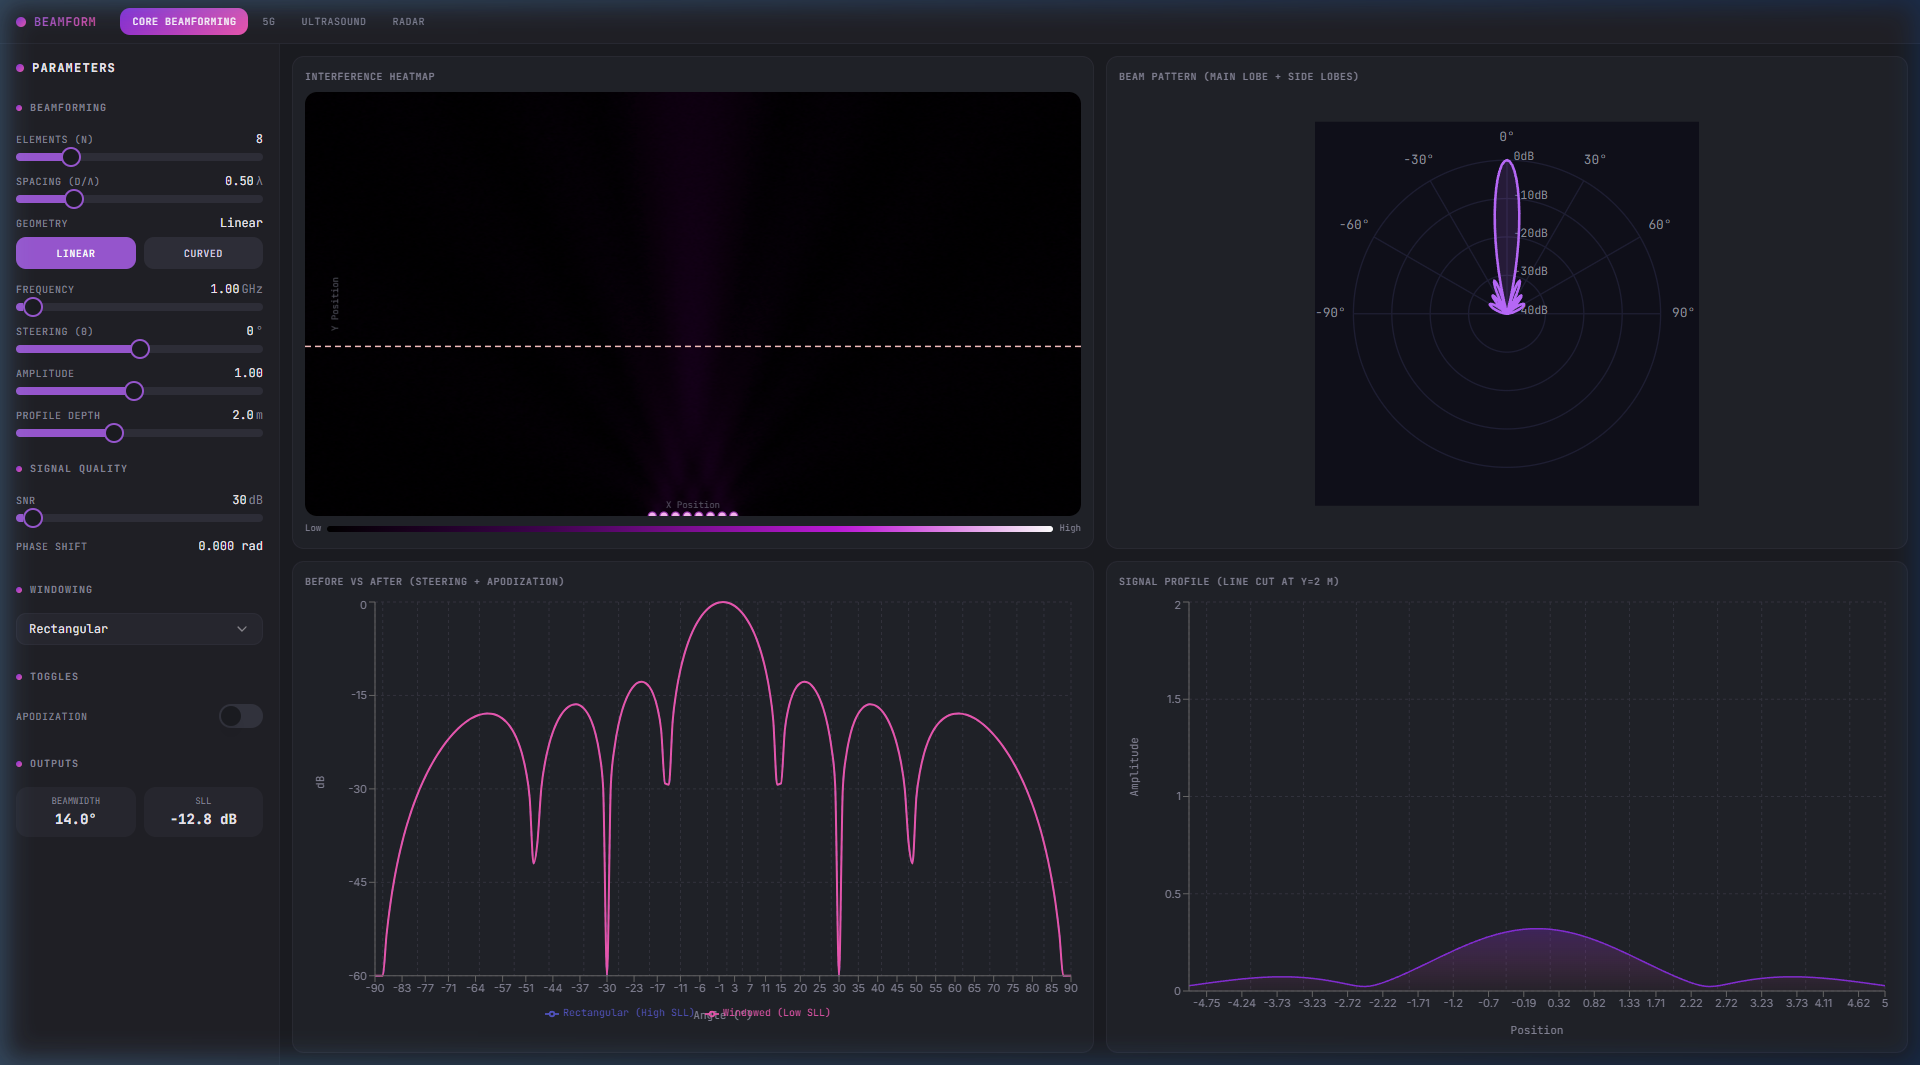
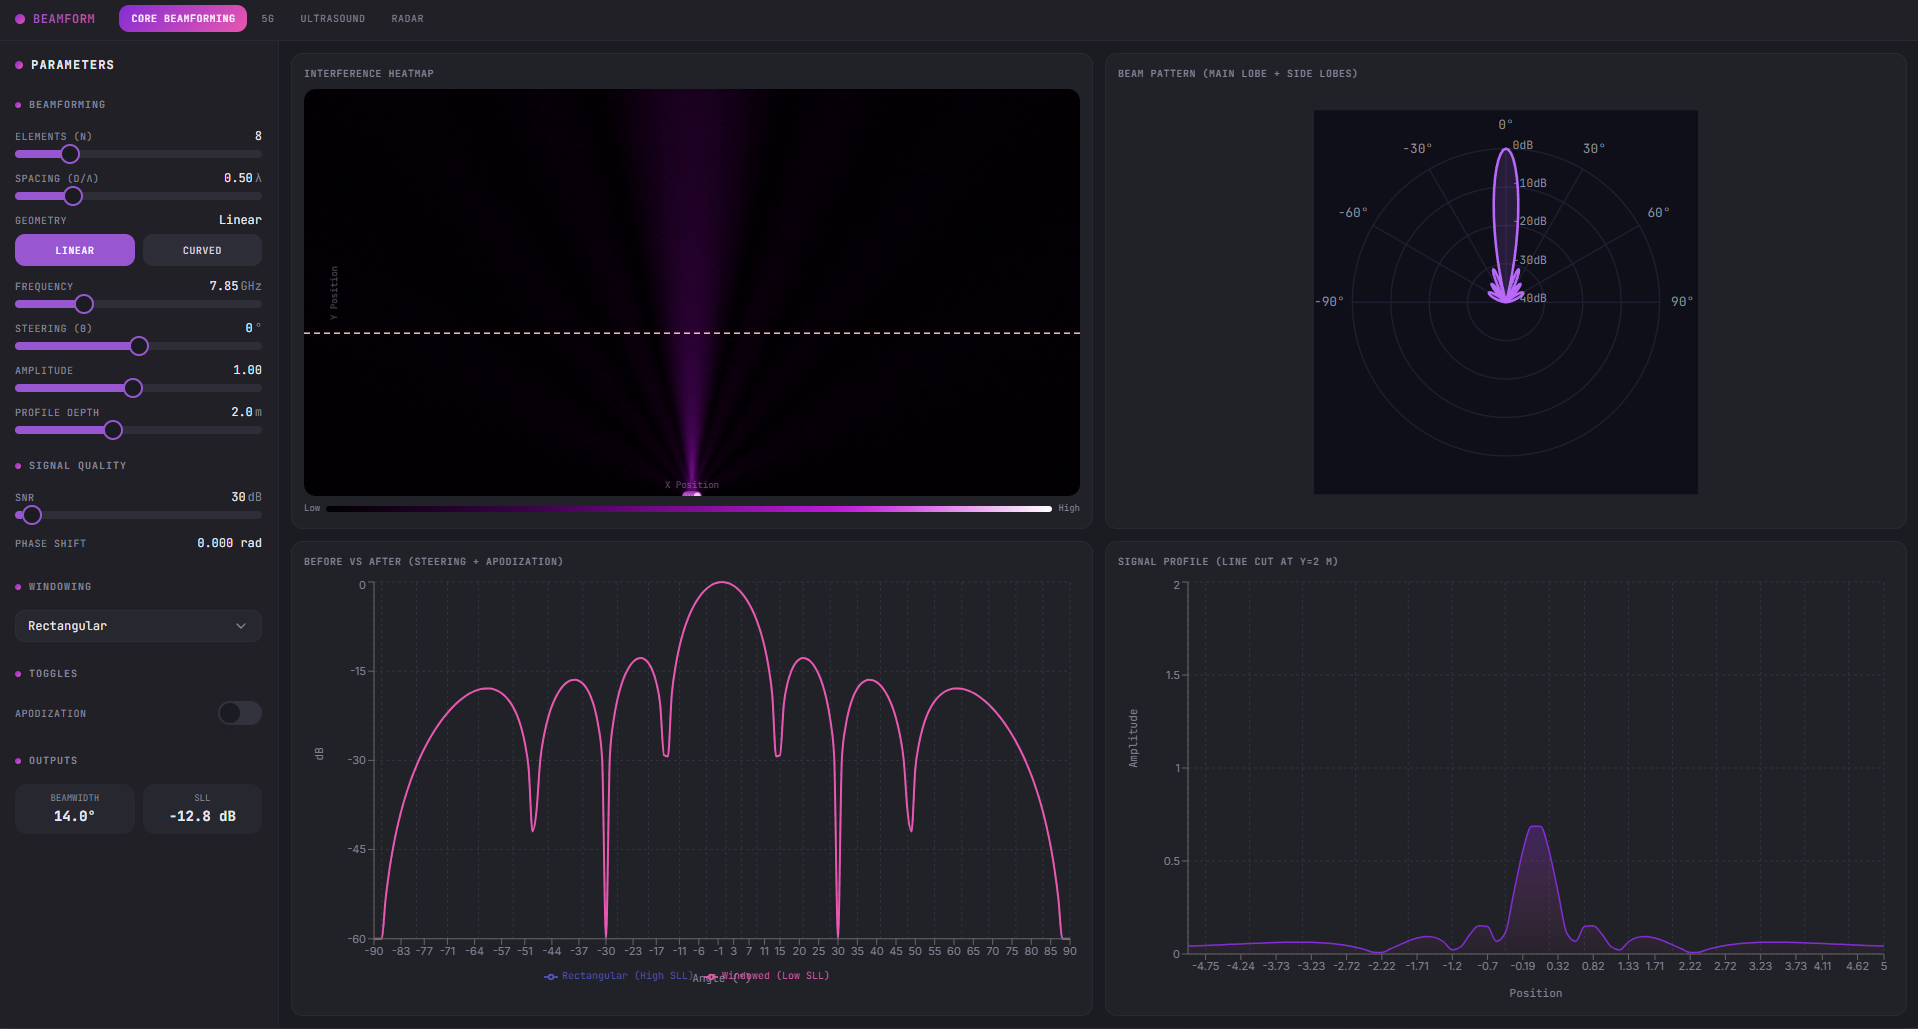
latest

diff --git a/frontend/src/pages/Simulator5G.tsx b/frontend/src/pages/Simulator5G.tsx
@@ -1613,6 +1613,13 @@ export default function Simulator5G() {
     const localUsersById = new Map<number, { id: number; x: number; y: number }>(localUsers.map((u) => [u.id, u]));
     const allocsByTower = elementAllocsByTowerId;
     const kEpsilon = 1e-6;
+    const snrValue = Math.max(0, Number(deferredSnrDb ?? 30));
+    const snrScale = Math.max(0.05, snrValue / (snrValue + 30));
+    const averageAmplitude = Math.max(
+      1e-6,
+      localTowers.reduce((sum, tower) => sum + Number((tower as any).amplitude ?? 1.0), 0) / Math.max(1, localTowers.length)
+    );
+    const amplitudeScale = averageAmplitude;
 
     const spanX = Math.max(1e-6, mapViewport.maxX - mapViewport.minX);
     const spanY = Math.max(1e-6, mapViewport.maxY - mapViewport.minY);
@@ -1732,7 +1739,7 @@ export default function Simulator5G() {
         const steerForward = steerX * beamDirX + steerY * beamDirY;
         const phase = -kWave * (localX * steerLateral + localY * steerForward);
         const facingAngle = isCurved ? (beamAxisAngle + alpha_n) : beamAxisAngle;
-        const elemAmp = amplitude * ((weights[i] ?? 1) / wNorm);
+        const elemAmp = amplitude * snrScale * amplitudeScale * ((weights[i] ?? 1) / wNorm);
         elementEmitters.push({ x: ex, y: ey, amp: elemAmp, phase, k: kWave, facingAngle, isCurved: ((tower as any).geometry ?? "linear") === "curved" });
       }
     }
@@ -1826,6 +1833,12 @@ export default function Simulator5G() {
   const distanceChart = useMemo(() => {
     const SAMPLE_COUNT = 50;
     const minDist = 0.1;
+    const snrValue = Math.max(0, Number(deferredSnrDb ?? 30));
+    const snrScale = Math.max(0.05, snrValue / (snrValue + 30));
+    const averageAmplitude = Math.max(
+      1e-6,
+      localTowers.reduce((sum, tower) => sum + Number((tower as any).amplitude ?? 1.0), 0) / Math.max(1, localTowers.length)
+    );
 
     // Find max coverage radius among ALL local towers
     const maxRadius = Math.max(
@@ -1855,7 +1868,7 @@ export default function Simulator5G() {
         const alloc = allocs.find(a => Number(a.user_id) === u.id);
         const allocFraction = alloc?.fraction ?? (1.0 / (allocs.length || 1));
 
-        const signal = allocFraction / (d * d);
+        const signal = (allocFraction / (d * d)) * snrScale * averageAmplitude;
         row[`user_${u.id}`] = parseFloat(signal.toFixed(6));
       }
       return row;
@@ -1896,13 +1909,13 @@ export default function Simulator5G() {
           userId: u.id,
           towerId,
           distance: parseFloat(d.toFixed(2)),
-          signal: parseFloat((allocFraction / (d * d)).toFixed(6)),
+          signal: parseFloat(((allocFraction / (d * d)) * snrScale * averageAmplitude).toFixed(6)),
           beamHue,
         };
       });
 
     return { curveData, markers };
-  }, [localUsers, localTowers, liveConnectedTowerByUserId, elementAllocsByTowerId, towerCoverageRadiusByTowerId, mapViewport, CANVAS_W, CANVAS_H]);
+  }, [localUsers, localTowers, liveConnectedTowerByUserId, elementAllocsByTowerId, towerCoverageRadiusByTowerId, mapViewport, CANVAS_W, CANVAS_H, deferredSnrDb]);
 
   const panelTower = useMemo(
     () => localTowers.find((t) => t.id === panelTowerId) ?? null,
@@ -1934,26 +1947,8 @@ export default function Simulator5G() {
           }}
         />
       </div>
-
-      <div className="space-y-1.5">
-        <div className="flex justify-between items-center">
-          <Label className="text-[10px] font-mono text-muted-foreground uppercase tracking-wider">
-            Heatmap Resolution
-          </Label>
-          <span className="text-xs font-mono text-foreground tabular-nums">
-            {Math.round(Number(params.gridSize ?? 80))}
-          </span>
-        </div>
-        <Slider
-          value={[Math.round(Number(params.gridSize ?? 80))]}
-          min={40}
-          max={180}
-          step={10}
-          onValueChange={([v]) => updateParam("gridSize", Math.round(v))}
-        />
-      </div>
     </div>
-  ), [panelTower, panelTowerId, params.gridSize, updateParam]);
+  ), [panelTower, panelTowerId, updateParam]);
 
   const panelControl = useMemo(() => (
     <div className="h-full flex flex-col">

diff --git a/frontend/src/components/PolarPlot.tsx b/frontend/src/components/PolarPlot.tsx
@@ -45,6 +45,11 @@ export default function PolarPlot({
       ? series
       : [{ id: "single", angles, magnitudes, magnitudesDb, color: "#b466ff", label: "Beam" }];
 
+    const globalMaxMag = Math.max(
+      0,
+      ...source.flatMap((s) => s.magnitudes ?? [])
+    );
+
     return source.map((s, idx) => {
       const sAngles = s.angles ?? [];
       const sMagnitudes = s.magnitudes ?? [];
@@ -54,8 +59,8 @@ export default function PolarPlot({
       if (useDb && sMagnitudesDb && sMagnitudesDb.length > 0) {
         normalized = sMagnitudesDb.map((db) => Math.max(0, Math.min(1, (db - DB_MIN) / (DB_MAX - DB_MIN))));
       } else {
-        const maxMag = Math.max(0, ...sMagnitudes);
-        normalized = sMagnitudes.map((m) => (maxMag > 0 ? m / maxMag : 0));
+        const scale = globalMaxMag > 0 ? globalMaxMag : Math.max(0, ...sMagnitudes);
+        normalized = sMagnitudes.map((m) => (scale > 0 ? m / scale : 0));
       }
 
       const points = sAngles.map((angle, i) => {

diff --git a/frontend/src/hooks/use5GSimulatorAPI.ts b/frontend/src/hooks/use5GSimulatorAPI.ts
@@ -33,6 +33,7 @@ export function use5GSimulatorAPI() {
         num_elements: params.numElements ?? 16,
         spacing: params.spacing ?? 0.5,
         frequency: params.frequency ?? 28e9,
+        amplitude: params.amplitude ?? 1.0,
         snr_db: params.snrDb ?? 30,
         auto_steer: params.autoSteer !== false,
         enable_noise: params.enableNoise !== false,

diff --git a/backend/simulators/simulator_5g.py b/backend/simulators/simulator_5g.py
@@ -7,7 +7,7 @@ from dataclasses import dataclass, field
 from ..core.beamforming_engine import BeamformingEngine, BeamformingResult
 from ..core.array_model import ArrayModel
 from ..core.signal_model import SignalModel
-from ..core.noise_model import NoiseModel
+from ..core.noise_model import NoiseModel, get_noise_amplitude
 from ..core.window_functions import WindowFunction
 
 
@@ -373,6 +373,53 @@ class Simulator5G(BeamformingEngine):
             "radius": float(rad),
         }
 
+    def _tower_signal_at_point(
+        self,
+        tower: Tower,
+        x: float,
+        y: float,
+        seed_x: int,
+        seed_y: int,
+    ) -> tuple[float, float, float, float]:
+        """Compute the received signal from one tower at a point."""
+        eff = self._tower_effective_params(tower)
+        amplitude = float(eff["amplitude"])
+        snr_db = float(eff["snr_db"])
+        snr_scale = self._snr_signal_scale(snr_db)
+
+        dx = x - tower.x
+        dy = y - tower.y
+        distance = math.sqrt(dx * dx + dy * dy)
+        angle_to_point = math.atan2(dx, dy) * 180 / math.pi if distance > 1e-6 else 0.0
+        beam_gain = self._get_beam_gain_at_angle(angle_to_point, tower.steering_angle_deg)
+
+        signal = amplitude * beam_gain / max(distance * distance, 1e-6)
+        signal *= snr_scale
+        noise_multiplier = get_noise_amplitude(snr_db)
+        if noise_multiplier > 0.0:
+            signal = self._apply_signal_noise(signal, noise_multiplier, seed_x, seed_y)
+
+        return distance, angle_to_point, beam_gain, signal
+
+    @staticmethod
+    def _apply_signal_noise(signal: float, noise_multiplier: float, seed_x: int, seed_y: int) -> float:
+        """Apply deterministic AWGN to a linear signal strength value."""
+        if noise_multiplier <= 0.0 or signal <= 0.0:
+            return max(0.0, signal)
+
+        noise_power = signal * noise_multiplier
+        if noise_power <= 1e-18:
+            return max(0.0, signal)
+
+        noise = NoiseModel.cached_gaussian(seed_x, seed_y, 0) * math.sqrt(noise_power)
+        return max(0.0, signal + noise)
+
+    @staticmethod
+    def _snr_signal_scale(snr_db: float) -> float:
+        """Map SNR into a visible linear signal scale."""
+        snr = max(0.0, float(snr_db))
+        return max(0.05, snr / (snr + 30.0))
+
     @staticmethod
     def _wrap_angle_deg(angle_deg: float) -> float:
         """Normalize angle to [-180, 180] degrees."""
@@ -534,9 +581,12 @@ class Simulator5G(BeamformingEngine):
             allocs = element_allocations.get(tower.id, [])
             eff = self._tower_effective_params(tower)
             freq = float(eff["frequency"])
+            snr_db = float(eff["snr_db"])
+            snr_scale = self._snr_signal_scale(snr_db)
             wavelength_m = self.speed_of_light / max(1.0, freq)
             spacing_over_lambda = float(eff["spacing"])
             amplitude = float(eff["amplitude"])
+            noise_multiplier = get_noise_amplitude(snr_db)
             
             for user in self.users:
                 # Distance and angle
@@ -567,6 +617,8 @@ class Simulator5G(BeamformingEngine):
                         wavelength_m=wavelength_m,
                         amplitude=amplitude,
                     )
+                    signal_strength *= snr_scale
+                    signal_strength = self._apply_signal_noise(signal_strength, noise_multiplier, tower.id, user.id)
                     gain = abs(self._normalized_sinc(
                         int(alloc_for_user.get("num_elements", 1))
                         * math.pi
@@ -577,6 +629,8 @@ class Simulator5G(BeamformingEngine):
                     # Unallocated users see leakage from nominal tower beam plus distance decay.
                     gain = self._get_beam_gain_at_angle(angle_to_user, tower.steering_angle_deg)
                     signal_strength = amplitude * gain / max(distance * distance, 1e-6)
+                    signal_strength *= snr_scale
+                    signal_strength = self._apply_signal_noise(signal_strength, noise_multiplier, tower.id, user.id)
 
                 path_loss_db = self._compute_path_loss(distance)
                 
@@ -610,8 +664,9 @@ class Simulator5G(BeamformingEngine):
     ) -> Dict[int, Optional[int]]:
         """Determine which tower each user connects to (one tower per user).
 
-        Uses ideal path loss (omni tracking) to avoid dropping users due to 
-        momentary misaligned narrow beams. Applies hysteresis to prevent ping-pong.
+        Computes actual received signal strength (path loss + beam gain + SNR noise)
+        for each tower and connects user to tower with highest signal strength.
+        Applies hysteresis to prevent ping-pong.
 
         Args:
             current_connections: Optional map of {user_id: tower_id} from the
@@ -620,21 +675,21 @@ class Simulator5G(BeamformingEngine):
         Returns:
             Dict mapping user_id -> tower_id (or None if no tower in range).
         """
-        # Build per-user signal map using optimal 1.0 gain
+        # Build per-user signal map with actual beam gain and SNR noise considered
         signal_map: Dict[int, Dict[int, float]] = {u.id: {} for u in self.users}
 
         for tower in self.towers:
             for user in self.users:
-                dx = user.x - tower.x
-                dy = user.y - tower.y
-                distance = math.sqrt(dx * dx + dy * dy)
+                distance, _, _, signal = self._tower_signal_at_point(
+                    tower,
+                    user.x,
+                    user.y,
+                    tower.id,
+                    user.id,
+                )
                 if distance > tower.coverage_radius_m:
                     # Out of visible coverage area: tower is not a valid serving candidate.
                     continue
-                path_loss_db = self._compute_path_loss(distance)
-                
-                # Ideal tracking gain = 1.0
-                signal = self.signal.amplitude / (10 ** (path_loss_db / 20))
                 signal_map[user.id][tower.id] = signal
 
         connections: Dict[int, Optional[int]] = {}
@@ -645,8 +700,9 @@ class Simulator5G(BeamformingEngine):
                 connections[user.id] = None
                 continue
 
+            # Select tower with highest signal strength
             best_tower_id = max(sigs, key=lambda tid: sigs[tid])
-            best_signal   = sigs[best_tower_id]
+            best_signal = sigs[best_tower_id]
 
             # Apply hysteresis if we were already connected somewhere
             prev_tid = (current_connections or {}).get(user.id)
@@ -674,26 +730,23 @@ class Simulator5G(BeamformingEngine):
             total_signal = 0.0
             
             for tower in self.towers:
-                eff = self._tower_effective_params(tower)
-                freq = float(eff["frequency"])
-                wavelength_m = self.speed_of_light / max(1.0, freq)
-                spacing_over_lambda = float(eff["spacing"])
-                amplitude = float(eff["amplitude"])
-
                 dx = user.x - tower.x
                 dy = user.y - tower.y
                 distance = math.sqrt(dx * dx + dy * dy)
-                
-                if distance > 0:
-                    angle_to_user = math.atan2(dx, dy) * 180 / math.pi
-                else:
-                    angle_to_user = 0
-                
+                eff = self._tower_effective_params(tower)
+                snr_db = float(eff["snr_db"])
+                snr_scale = self._snr_signal_scale(snr_db)
+                noise_multiplier = get_noise_amplitude(snr_db)
                 allocs = element_allocations.get(tower.id, [])
                 n_total = tower.num_elements if tower.num_elements is not None else self.array.num_elements
                 alloc_for_user = next((a for a in allocs if a.get("user_id") == user.id), None)
 
                 if alloc_for_user is not None:
+                    freq = float(eff["frequency"])
+                    wavelength_m = self.speed_of_light / max(1.0, freq)
+                    spacing_over_lambda = float(eff["spacing"])
+                    amplitude = float(eff["amplitude"])
+                    angle_to_user = math.atan2(dx, dy) * 180 / math.pi if distance > 1e-6 else 0
                     theta_offset = self._wrap_angle_deg(angle_to_user - float(alloc_for_user.get("angle_deg", 0.0)))
                     signal = self._compute_split_signal(
                         n_allocated=int(alloc_for_user.get("num_elements", 1)),
@@ -704,18 +757,17 @@ class Simulator5G(BeamformingEngine):
                         wavelength_m=wavelength_m,
                         amplitude=amplitude,
                     )
+                    signal *= snr_scale
+                    signal = self._apply_signal_noise(signal, noise_multiplier, tower.id, user.id)
                 else:
-                    gain = self._get_beam_gain_at_angle(angle_to_user, tower.steering_angle_deg)
-                    signal = amplitude * gain / max(distance * distance, 1e-6)
+                    _, _, _, signal = self._tower_signal_at_point(
+                        tower,
+                        user.x,
+                        user.y,
+                        tower.id,
+                        user.id,
+                    )
                 total_signal += signal
-
-            # Add AWGN with a stable reference power (per-user aggregate link level).
-            if self.noise.noise_enabled:
-                ref_power = max(self.signal.amplitude ** 2, 1e-12)
-                total_signal = self.noise.add_awgn_to_scalar(
-                    total_signal,
-                    reference_signal_power=ref_power
-                )
 
             user.signal_strength = max(0.0, total_signal)
             user.snr_db = self.noise.snr_db
@@ -885,16 +937,14 @@ class Simulator5G(BeamformingEngine):
                 # Sum signal from all towers
                 total_signal = 0.0
                 for tower in self.towers:
-                    dx = x - tower.x
-                    dy = y - tower.y
-                    distance = math.sqrt(dx * dx + dy * dy)
-                    
-                    if distance > 0:
-                        angle = math.atan2(dx, dy) * 180 / math.pi
-                        gain = self._get_beam_gain_at_angle(angle, tower.steering_angle_deg)
-                        path_loss_db = self._compute_path_loss(distance)
-                        signal = (gain * self.signal.amplitude) / (10 ** (path_loss_db / 20))
-                        total_signal += signal
+                    _, _, _, signal = self._tower_signal_at_point(
+                        tower,
+                        x,
+                        y,
+                        tower.id + xi * 1000,
+                        tower.id + yi * 1000,
+                    )
+                    total_signal += signal
                 
                 row.append(total_signal)
             

diff --git a/backend/service.py b/backend/service.py
@@ -123,6 +123,7 @@ class SimulationService:
             num_elements = params_dict.get("num_elements", 16)
             spacing = params_dict.get("spacing", 0.5)
             frequency = params_dict.get("frequency", 28e9)
+            amplitude = params_dict.get("amplitude", 1.0)
             snr_db = params_dict.get("snr_db", 30)
             auto_steer = params_dict.get("auto_steer", True)
             grid_size = params_dict.get("grid_size", 80)
@@ -139,6 +140,7 @@ class SimulationService:
                 num_elements=num_elements,
                 spacing=spacing,
                 frequency=frequency,
+                amplitude=amplitude,
                 snr_db=snr_db
             )
             
